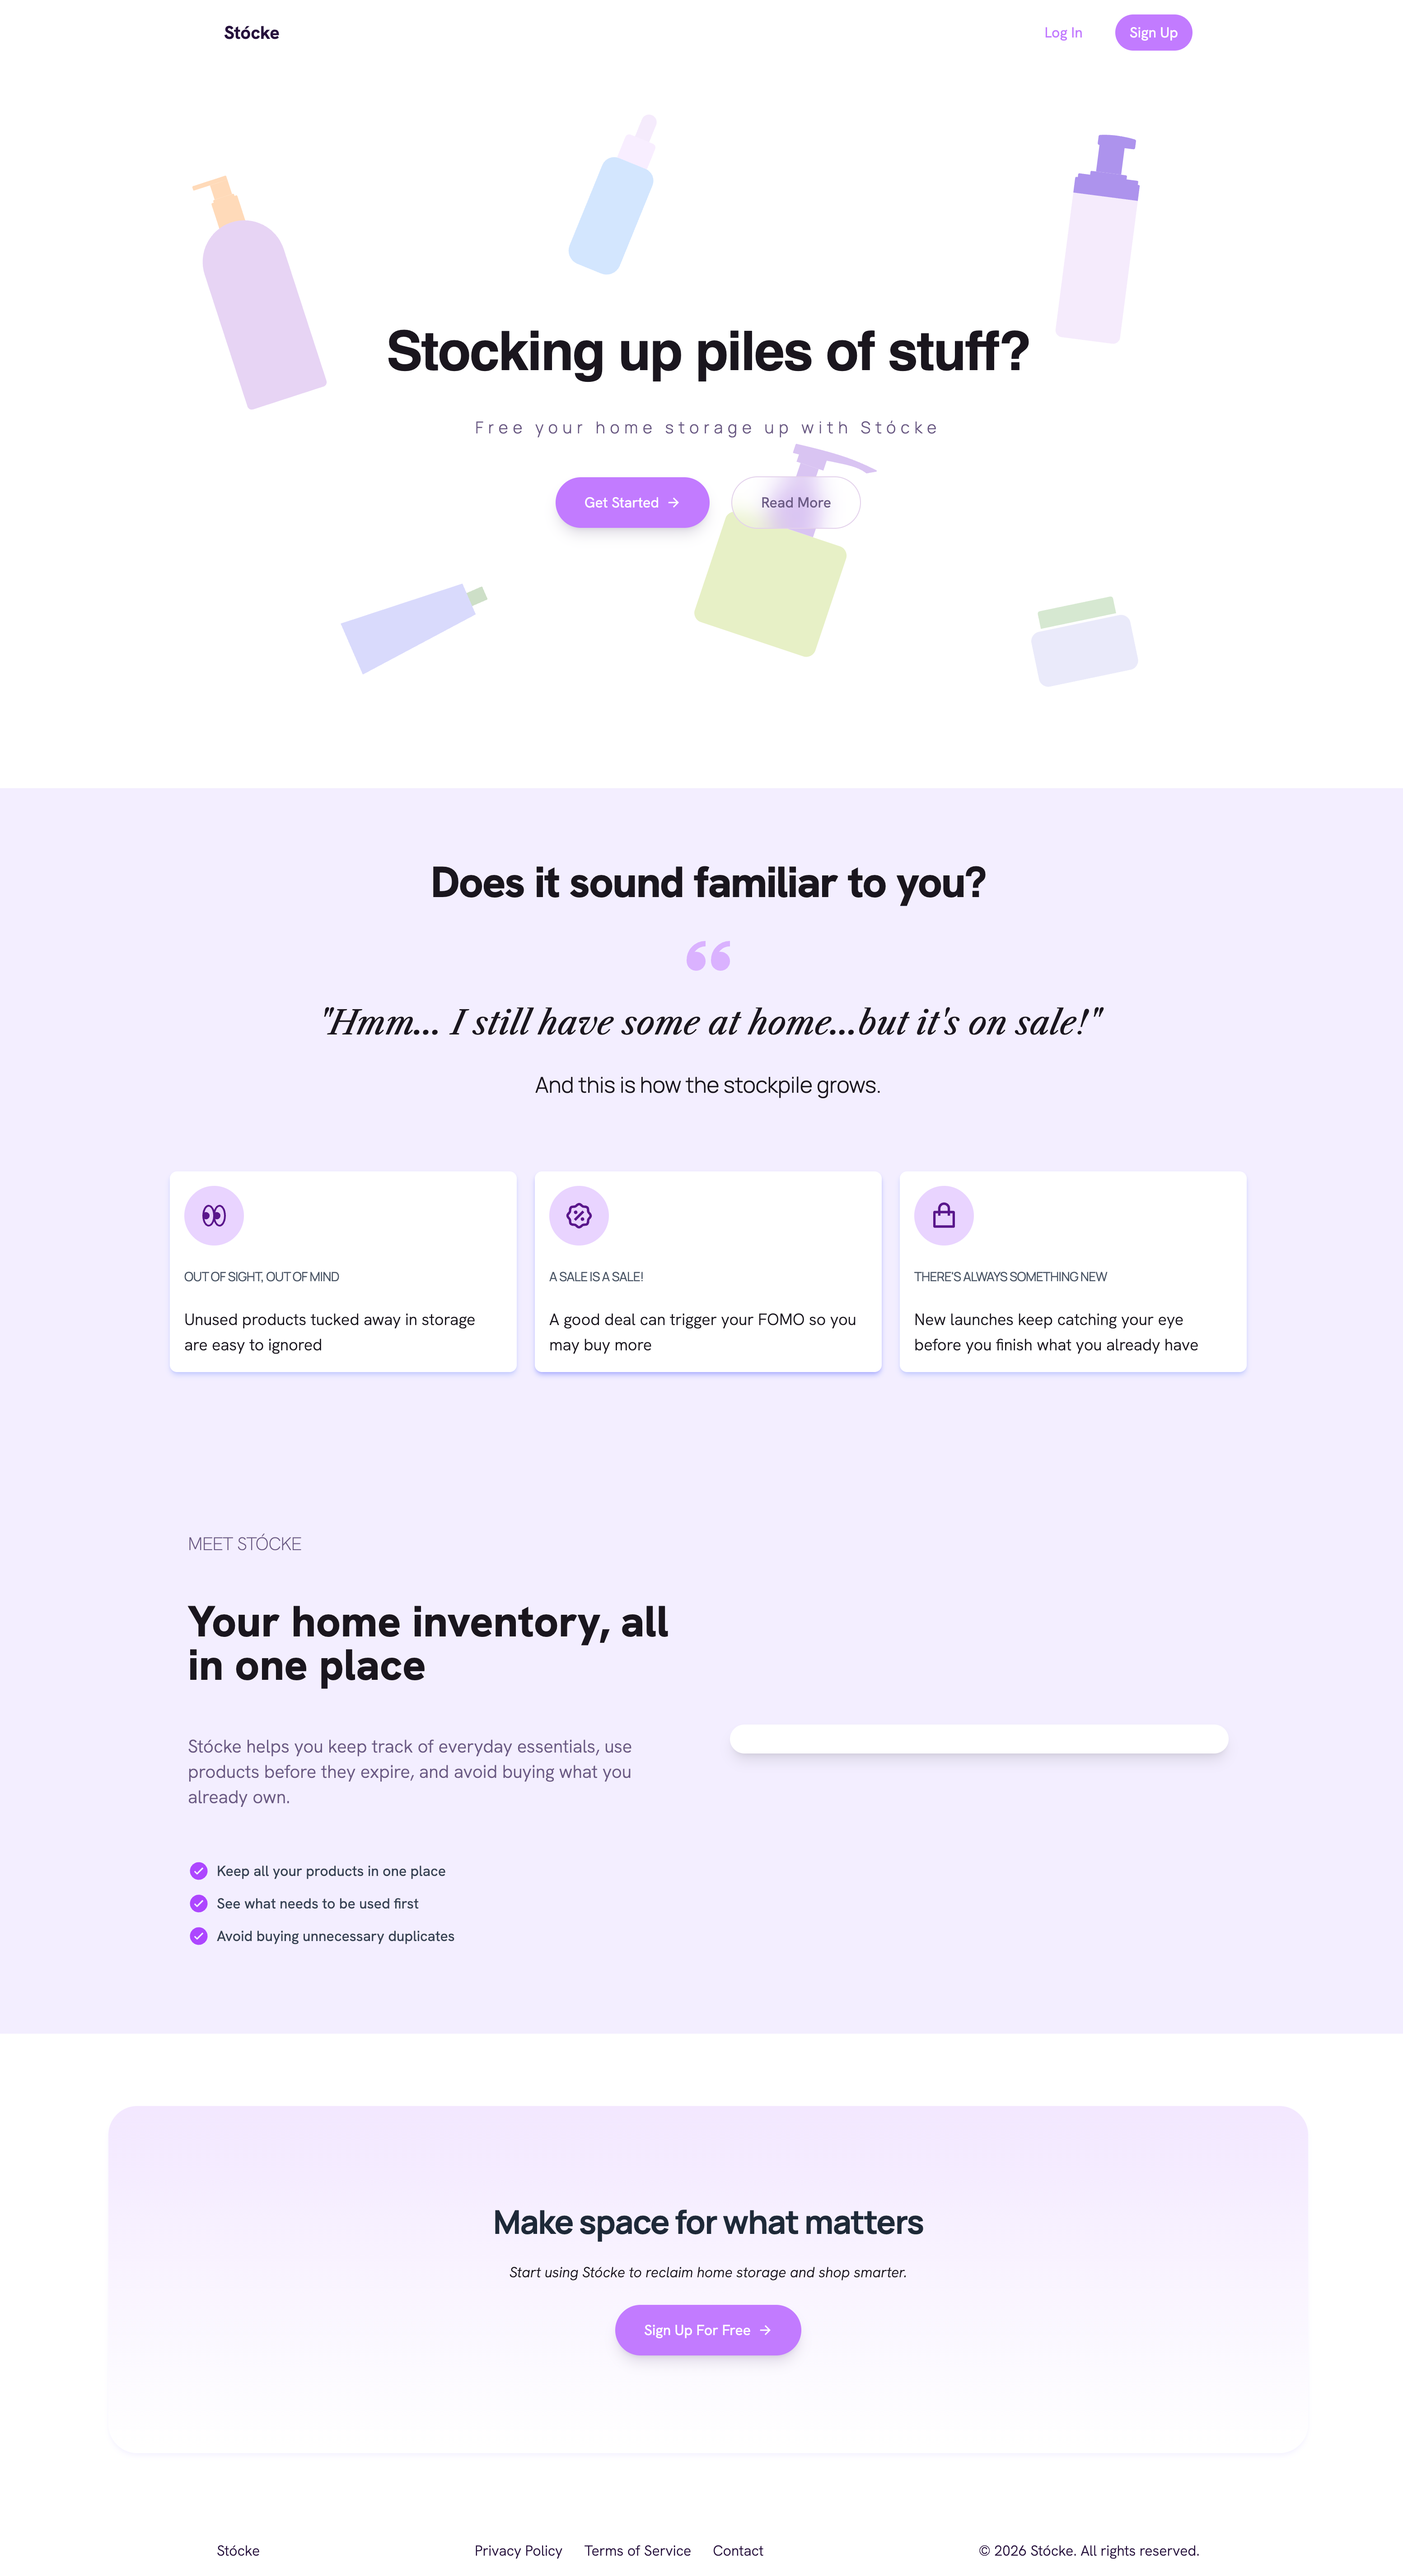
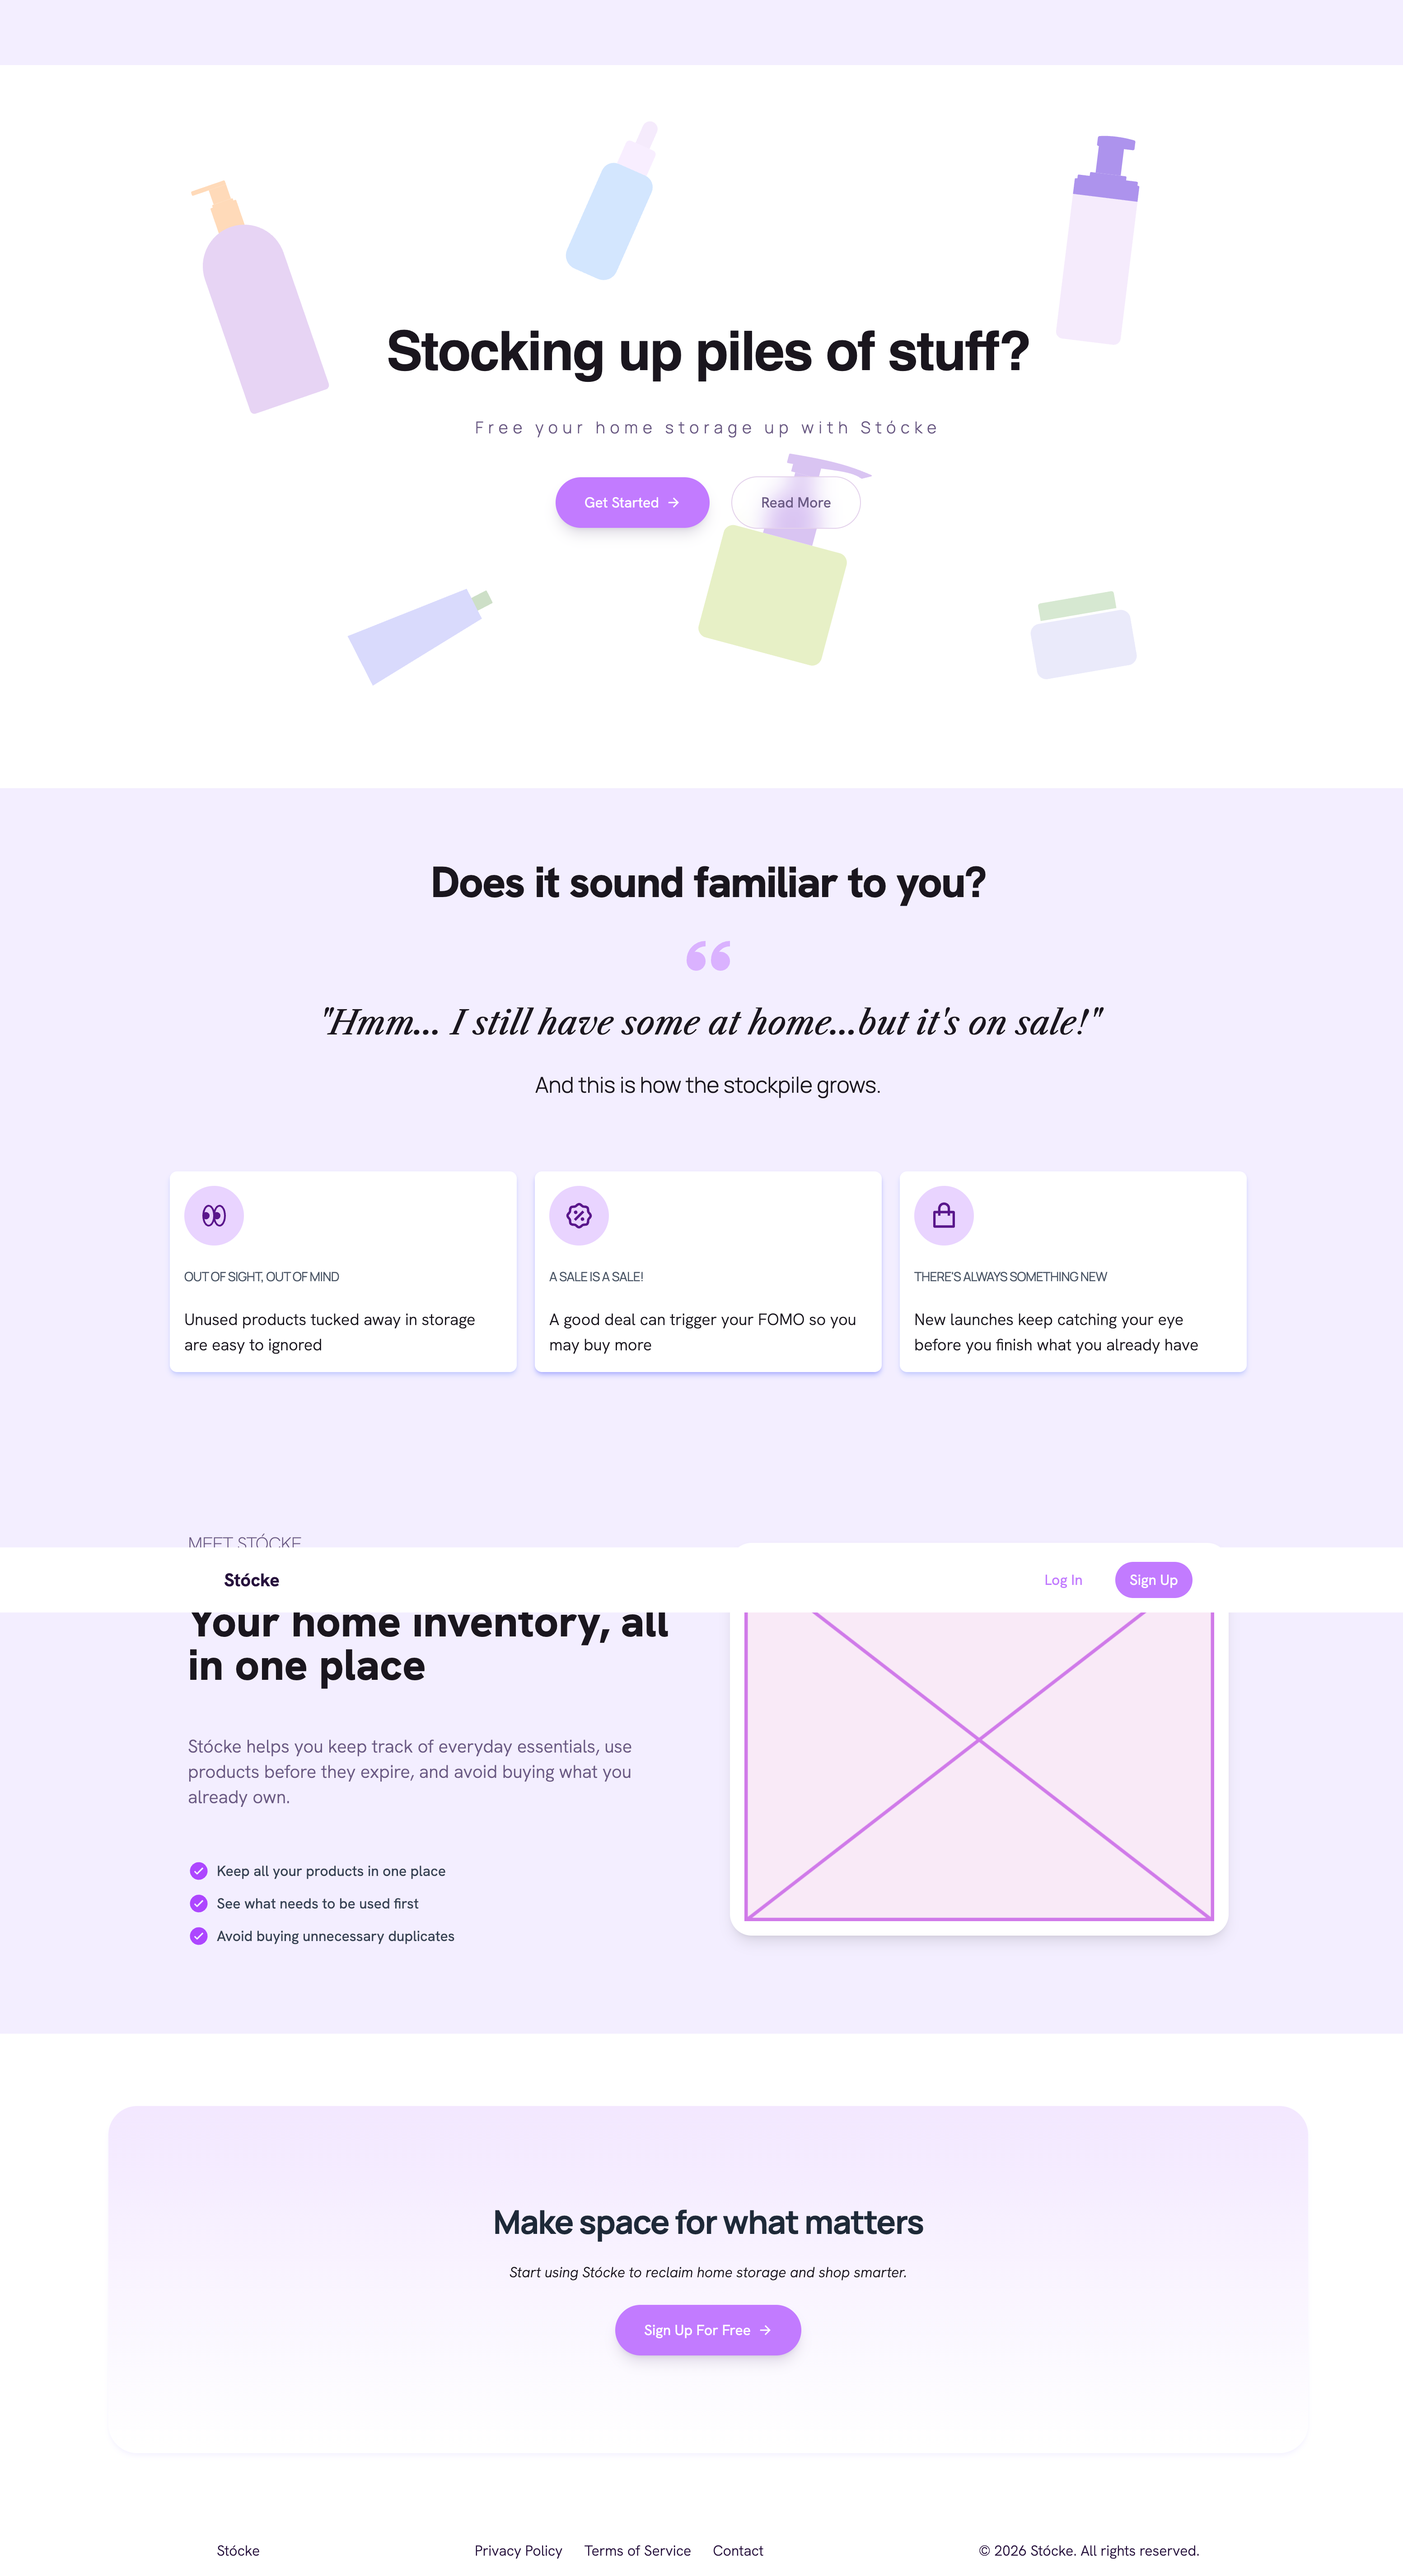
docs: update demo public landing page to README

diff --git a/src/pages/MainPage.tsx b/src/pages/MainPage.tsx
@@ -8,11 +8,11 @@ import handwash from "../../main_graphic/handwash.svg";
 import handcream from "../../main_graphic/handcream.svg";
 import { IoArrowForwardSharp } from "react-icons/io5";
 import { ImQuotesLeft } from "react-icons/im";
-// import { LuEyeClosed } from "react-icons/lu";
 import { RiDiscountPercentLine } from "react-icons/ri";
 import { RiShoppingBagLine } from "react-icons/ri";
 import { PiEyesFill } from "react-icons/pi";
 import { IoIosCheckmarkCircle } from "react-icons/io";
+import placeholder from "../../main_graphic/placeholder.png";
 
 
 export default function MainPage() {
@@ -192,6 +192,7 @@ export default function MainPage() {
 
                         <div className="rounded-3xl bg-white p-4 shadow-lg">
                             {/* Dashboard screenshot or styled static dashboard preview */}
+                            <img src={placeholder} alt={placeholder}/>
                         </div>
                     </div>
                 </section>
